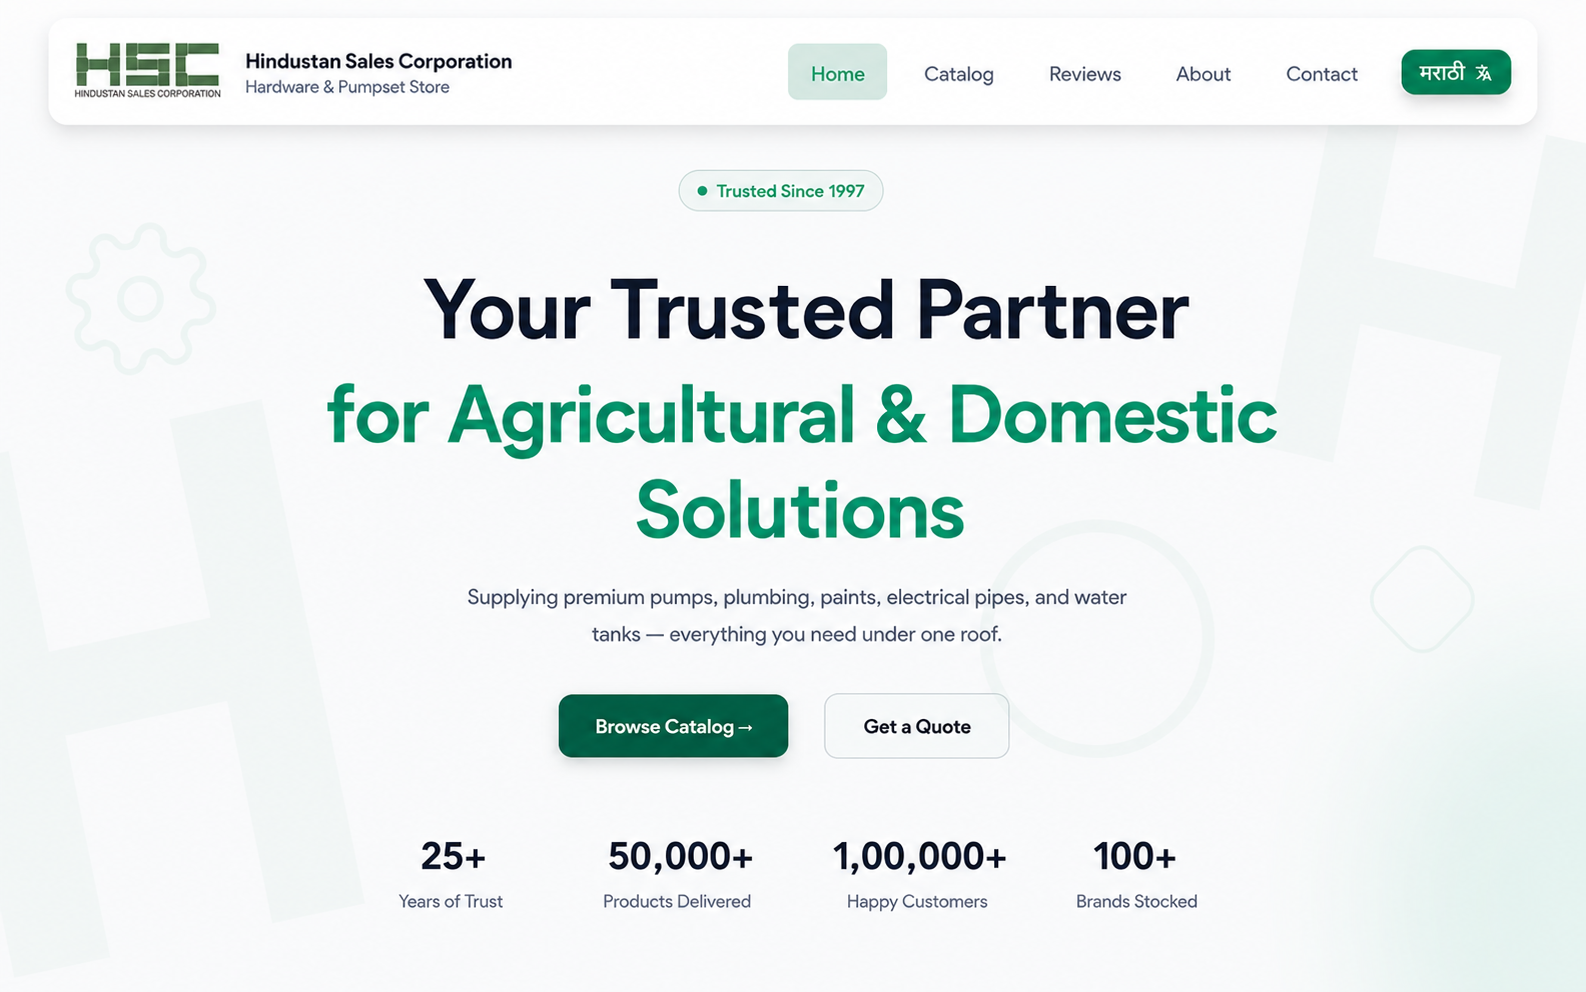
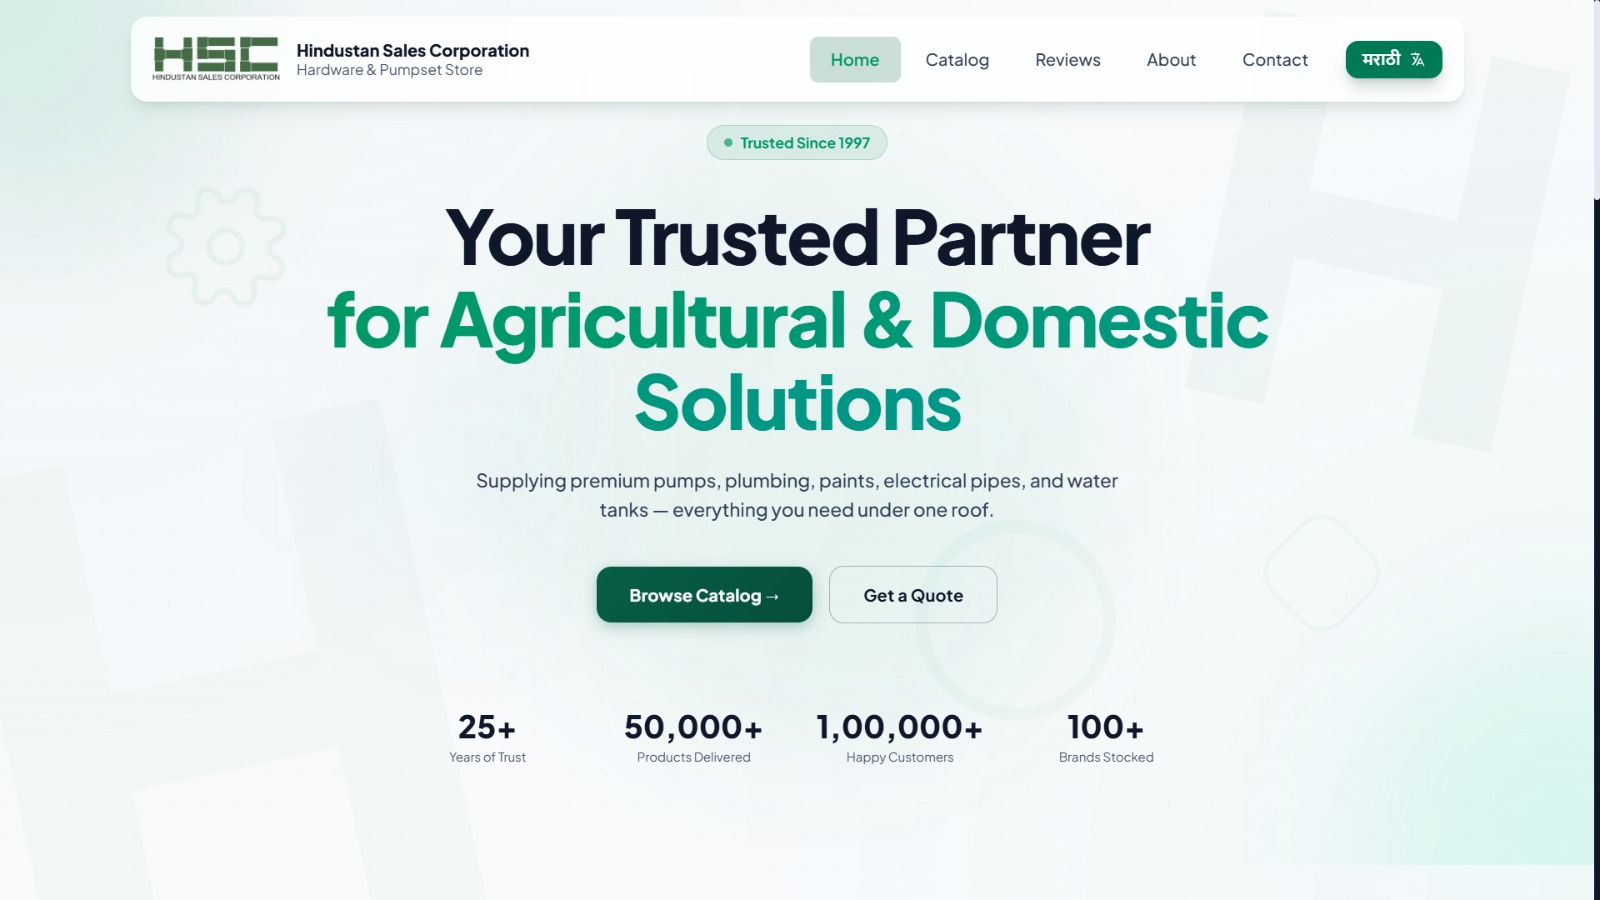
feat: add ProjectRow component and Hindustan Sales project screenshot

diff --git a/src/components/ProjectRow.tsx b/src/components/ProjectRow.tsx
@@ -86,7 +86,8 @@ export default function ProjectRow({ project, index }: ProjectRowProps) {
                   alt={project.title}
                   width={1536}
                   height={730}
-                  priority={index === 0}
+                  loading="eager"
+                  priority={index < 3}
                   sizes="(max-width: 768px) 100vw, (max-width: 1200px) 45vw, 600px"
                   className="w-full h-auto object-contain transition-transform duration-500 group-hover:scale-[1.01]"
                 />
